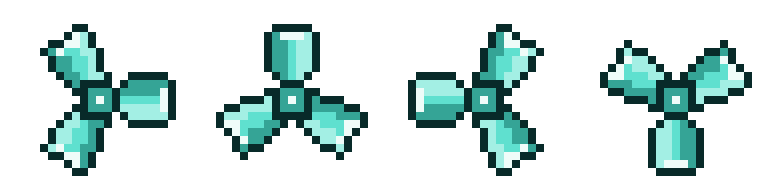
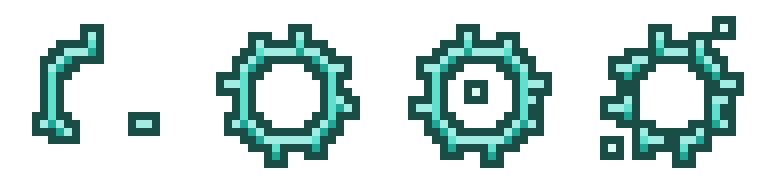
feat: 시전 시트 8장 재요청 — 문제는 크기가 아니라 «서로 안 갈리는 것»
오너 지적: 「가온 이펙트가 똑같은 것 같은데」. 맞았다.

배선은 정상이었다 — 런타임이 gaon-swordwave.png 를 실제로 집고, 격리해서 찍으면
예전보다 굵고 블록지다. 칠한 비율도 +27% 크다. 그런데 «금색 초승달을 금색
초승달로» 바꾼 것이라 화면에서 「바뀌었다」가 읽히지 않았다.

  시전 시트 8장 중 7장이 기존 per-kind 시트를 같은 모티프로 대체하고 있었다
    gaon   → fx-slash-burst      biyeon → fx-longshot-burst
    lumi   → fx-split-burst      haru   → fx-seek-burst
    sera   → fx-turn-burst       taeo   → fx-shockwave-burst
    nyx    → fx-copycat-burst
  완전히 새로운 것은 윤슬 하나뿐이었다(이전에 아무 그림도 없었다).

2차는 능력을 «실루엣»으로 말한다
  샛별 교차 베기(X) · 미리내 뻗는 화살 · 별하 쪼개짐 · 살별 꺾이는 추적 화살 ·
  윤슬 톱니 링 · 달무리 궤도 링+핵 · 모루 동심원 · 그믐 마름모 복제(빈→채움)
  1차 대비 실루엣 차이 14~32%.

내가 정한 것 — A/B 갈래 셋 (윤슬·달무리·그믐에 대안 -B 가 함께 왔다)
  윤슬 B   톱니 링. bladewheel 이 「칼날 바퀴」라 링이 이름 그대로다
  달무리 B 궤도 링+핵. 달무리 = 달의 halo, turn 과도 맞는다
  그믐 A   빈 마름모 + 채운 마름모. 「원본→복제」가 한눈에 읽힌다
이 조합이 hue 가 1.2° 밖에 안 갈리는 달무리·그믐의 실루엣을 가장 크게 벌린다
(링 vs 마름모 둘). 쓰지 않은 대안은 바꾸려면 파일 복사 한 줄이다.

검증
  8장 전수 재검사: 768×192 · 셀 8 · 논리 24×24 · 5색 · hue 차 0.2~0.8° · 예약색 0
  런타임 8/8 로드 확인(afterDraw 격자로 실제 텍스처를 찍었다)
  npm run verify · smoke 통과
  성능 재측정: rAF p95 변화 0ms (OFF 9.1 / ON 9.1, 431프레임, >20ms 0)

배운 것: 「반입됐나」와 「보이나」는 다른 질문이다. 파일 있음·경로 맞음·런타임이
집음을 다 통과해도, 그림이 예전과 같은 모티프면 플레이어에게는 아무 일도 일어나지
않은 것이다. 반입 검수에 «무엇을 대체했는가»를 넣어야 한다.

diff --git a/ASSET_BACKLOG.md b/ASSET_BACKLOG.md
@@ -399,6 +399,27 @@
   > 그 여섯 장이 사실상 구분되지 않는다. 시트가 아니라 로스터 팔레트의 충돌이고,
   > 고치려면 판정색을 건드리므로 오너 결정 사항으로 남긴다.
 
+> **2026-08-24 2차 — 시전 시트 8장 다시 받았다.** 1차의 시전 시트는 8장 중 7장이
+> 기존 per-kind 시트(`fx-slash-burst` 등)와 **같은 모티프**여서 화면에서 「바뀌었다」가
+> 읽히지 않았다. 오너가 「가온 이펙트가 똑같은 것 같다」고 지적했고, 확인해 보니
+> 배선은 정상인데(런타임이 `gaon-swordwave.png` 를 집는다) 금색 초승달을 금색
+> 초승달로 바꾼 것이었다.
+>
+> 2차는 **능력을 실루엣으로 말한다** — 샛별 교차 베기(X) · 미리내 뻗는 화살 ·
+> 별하 쪼개짐 · 살별 꺾이는 추적 화살 · 윤슬 톱니 링 · 달무리 궤도 링+핵 ·
+> 모루 동심원 · 그믐 마름모 복제(빈 것 → 채운 것). 1차 대비 실루엣 차이 14~32%.
+>
+> **A/B 갈래 셋**: 윤슬·달무리·그믐에 대안(`-B`)이 함께 왔다. 윤슬 **B**(톱니 링 —
+> `bladewheel` 이 「칼날 바퀴」라 링이 이름 그대로다), 달무리 **B**(궤도 링+핵 —
+> 달무리는 달의 halo 이고 `turn` 과도 맞는다), 그믐 **A**(빈 마름모 + 채운 마름모 —
+> 「원본→복제」가 한눈에 읽힌다)를 골랐다. 이 조합이 **hue 가 1.2° 밖에 안 갈리는
+> 달무리·그믐의 실루엣을 가장 크게 벌린다**(링 vs 마름모 둘). 쓰지 않은 대안은
+> `Downloads/out/fx/*-B.png` 에 남아 있고 바꾸려면 파일 복사 한 줄이다.
+>
+> 규격·색은 1차와 같고 전수 재검사했다: 8장 모두 768×192 · 셀 8 · 논리 24×24 ·
+> 5색 · 고유색과 hue 차 0.2~0.8° · **예약색 침범 0장**. 성능도 재측정해 rAF p95
+> 변화 **0ms** 그대로다.
+
 - 결정·검수 메모: **2026-08-24 디자인 세션에 요구서로 나가 있다** — [AWAKEN_FX_REQUEST_2026_08_24.md](AWAKEN_FX_REQUEST_2026_08_24.md). 값을 몰래 키우는 것으로는 안 된다: 셋이 깨어나는 판이 이미 상한을 넘고 있으므로 전부 키우면 그쪽이 폭발한다 — 「겹칠 때 어디서 멈출지」를 함께 정해야 한다. **히트스톱은 특히 조심**: `impactStop > 0`인 프레임은 `update()`가 통째로 건너뛰어 판이 실제로 언다. rAF는 계속 도므로 프레임 지표에는 안 보인다 — «측정을 통과하는 렉»이고 이 저장소가 한 번 겪었다(히트스톱을 0.052 → 0.018로 자른 기록이 그 파일 주석에 있다). 반입 뒤 `scripts/probe-settle-cost.mjs`로 정산 프레임 p95 를 비교 첨부할 것.
 
 ### [명세 필요] P1 — 6·7점 캐스트 대격 저음 레이어

diff --git a/DEVLOG.md b/DEVLOG.md
@@ -14,6 +14,26 @@
 - 증거: 커밋, 파일, 스크린샷, 봇 결과 링크
 ```
 
+## 2026-08-24 — 시전 시트 8장 재요청, 그리고 «똑같아 보인다»가 맞았던 이유
+
+- 오너 지적: 「패치 반입된 거야? 가온 이펙트가 똑같은 것 같은데」.
+- 확인: **배선은 정상이었다.** 런타임이 `gaon-swordwave.png` 를 실제로 집고, 격리해서
+  찍으면 예전 것보다 굵고 블록지다. 그런데 지적이 맞았다 — 시전 시트 8장 중 **7장이
+  기존 per-kind 시트를 «같은 모티프»로 대체**하고 있었다(금색 초승달 → 금색 초승달).
+  칠한 비율로는 오히려 +27% 큰데도 「바뀌었다」가 안 읽힌 이유가 그것이다.
+  완전히 새로운 것은 윤슬 하나뿐이었다(이전에 아무 그림도 없었으니까).
+- 2차 반입: 8장 전부 **능력을 실루엣으로** 말한다. 샛별 교차 베기 · 미리내 뻗는 화살 ·
+  별하 쪼개짐 · 살별 꺾이는 추적 · 윤슬 톱니 링 · 달무리 궤도 링+핵 · 모루 동심원 ·
+  그믐 마름모 복제. 1차 대비 실루엣 차이 14~32%.
+- 사람이 정할 것을 내가 정한 자리: 윤슬·달무리·그믐에 대안(`-B`)이 함께 와서 셋을 골랐다
+  (윤슬 B · 달무리 B · 그믐 A). 근거는 이름·능력과의 일치, 그리고 **hue 가 1.2° 밖에
+  안 갈리는 달무리·그믐을 실루엣으로 벌리는 것**이다. 오너에게 선택과 근거를 밝혔다.
+- 검증: 8장 전수 재검사(768×192 · 셀 8 · 논리 24×24 · 5색 · hue 차 0.2~0.8° · 예약색 0),
+  런타임 8/8 로드 확인, `npm run verify` · `smoke` 통과, 성능 재측정 rAF p95 변화 0ms.
+- 배운 것: **「반입됐나」와 「보이나」는 다른 질문이다.** 배선 검사(파일 있음·경로 맞음·
+  런타임이 집음)를 다 통과해도 그림이 예전과 같은 모티프면 플레이어에게는 아무 일도
+  일어나지 않은 것이다. 반입 검수에 «무엇을 대체했는가»를 넣어야 한다.
+
 ## 2026-08-24 — 탭이 발사가 되던 결함, 그리고 41% 거짓말을 하던 게이지
 
 - 사람이 시킨 일: 버그 수정.
